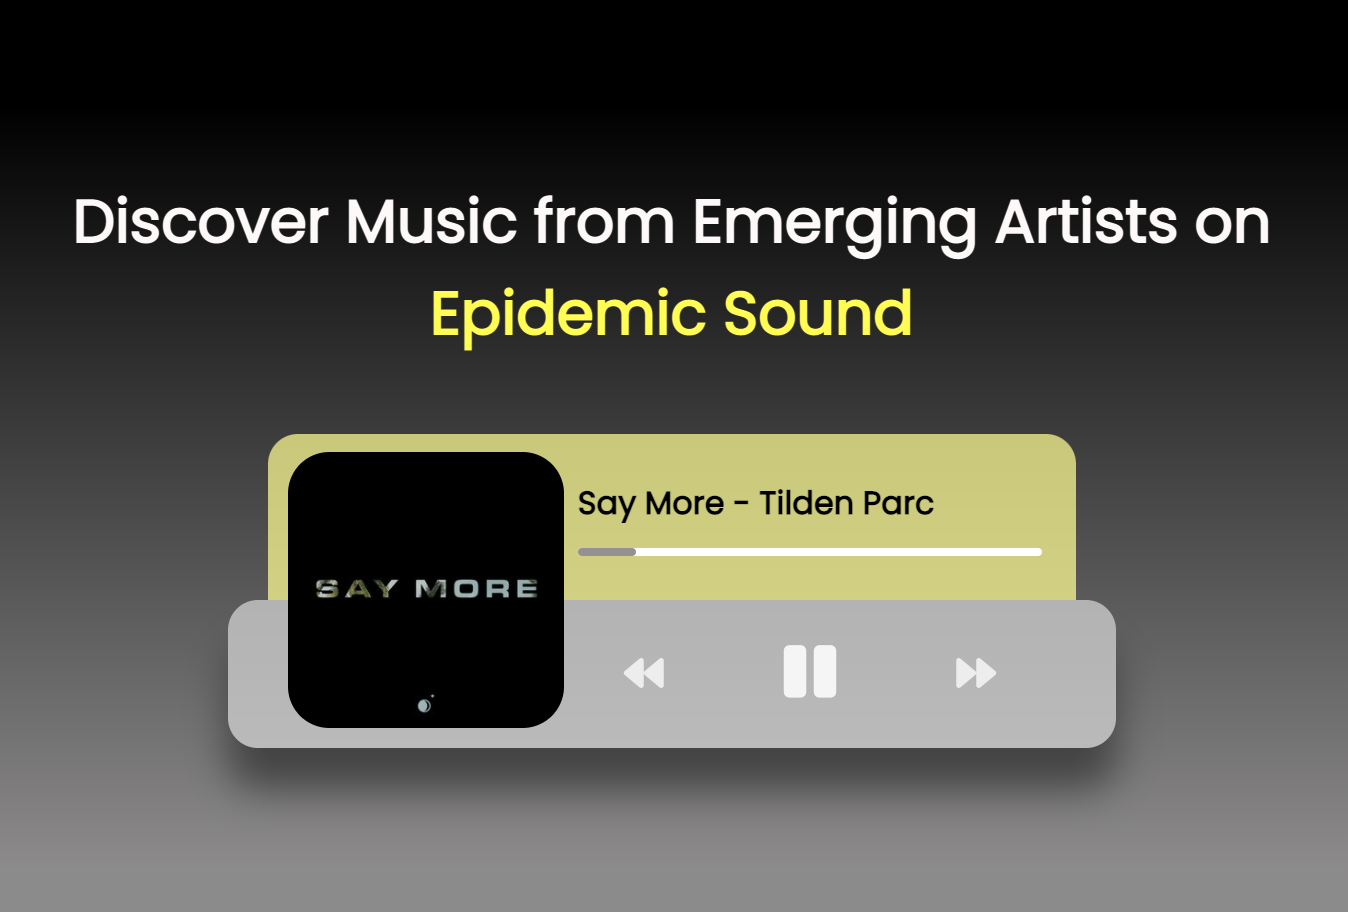
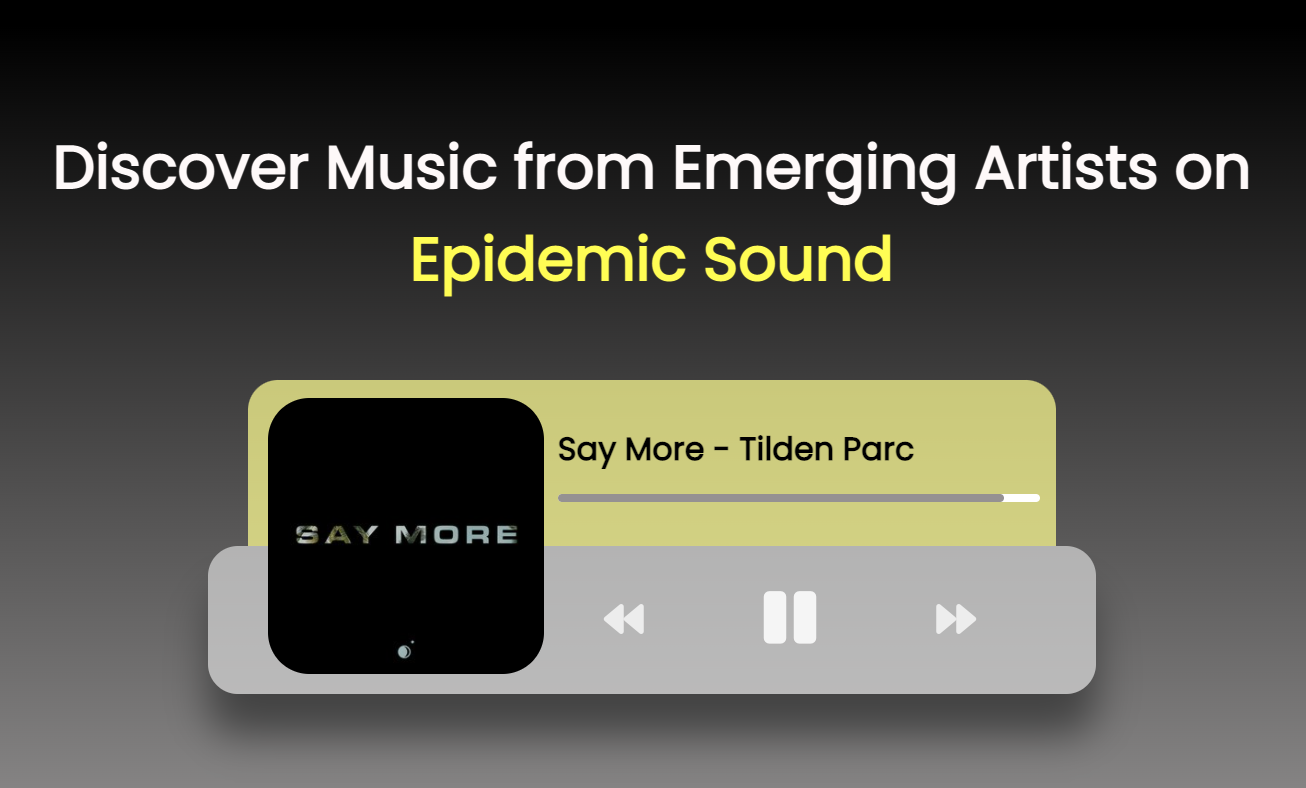
update readme

Changed region(s): [[0.1531, 0.4569, 0.8576, 0.9746], [0.0306, 0.1827, 0.9801, 0.3959]]

diff --git a/style.css b/style.css
@@ -124,7 +124,7 @@ body a {
     cursor: pointer;
     margin: 10px 0 0 5px;
     height: 4px;
-    width: 95%;
+    width: 98.7%;
 
 } 
 
@@ -213,9 +213,13 @@ body a {
     padding: 8px 2px;
   }
 
-.action-btn.action-btn-big {
+ .action-btn.action-btn-big {
     font-size: 16px;
-}
+ }
+ 
+ .progress-container {
+    width: 96%;
+} 
 
 }
 
